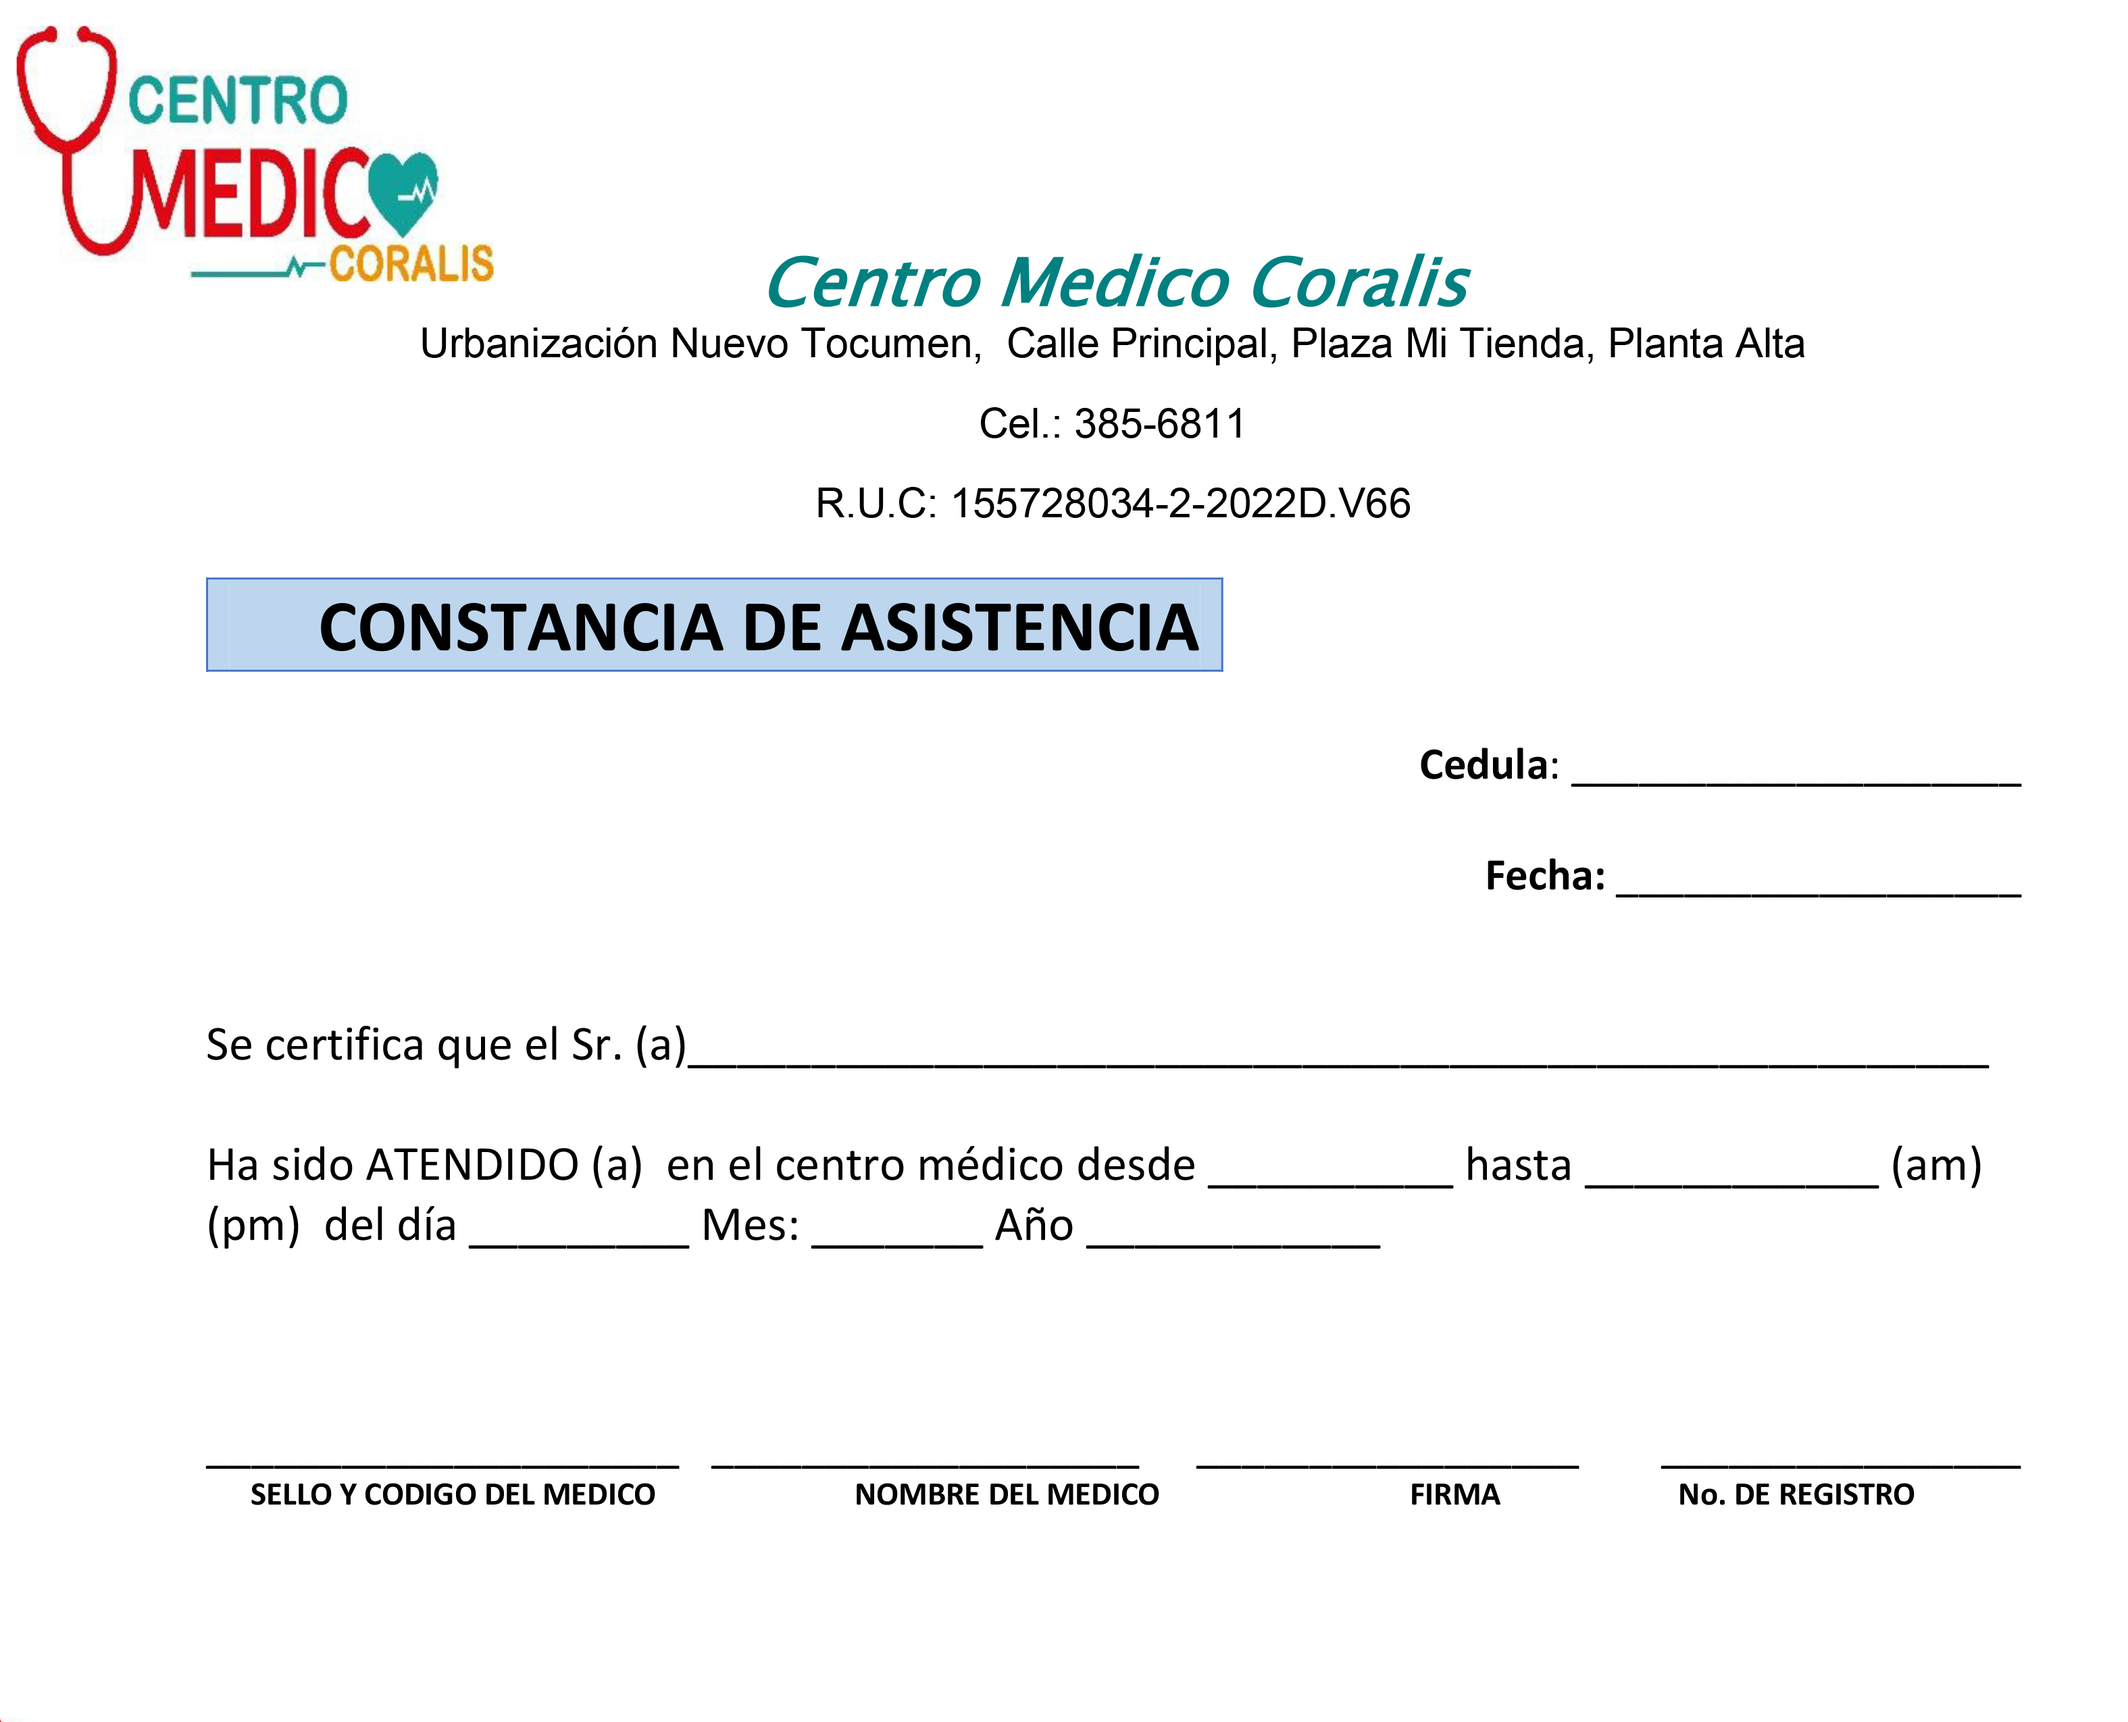
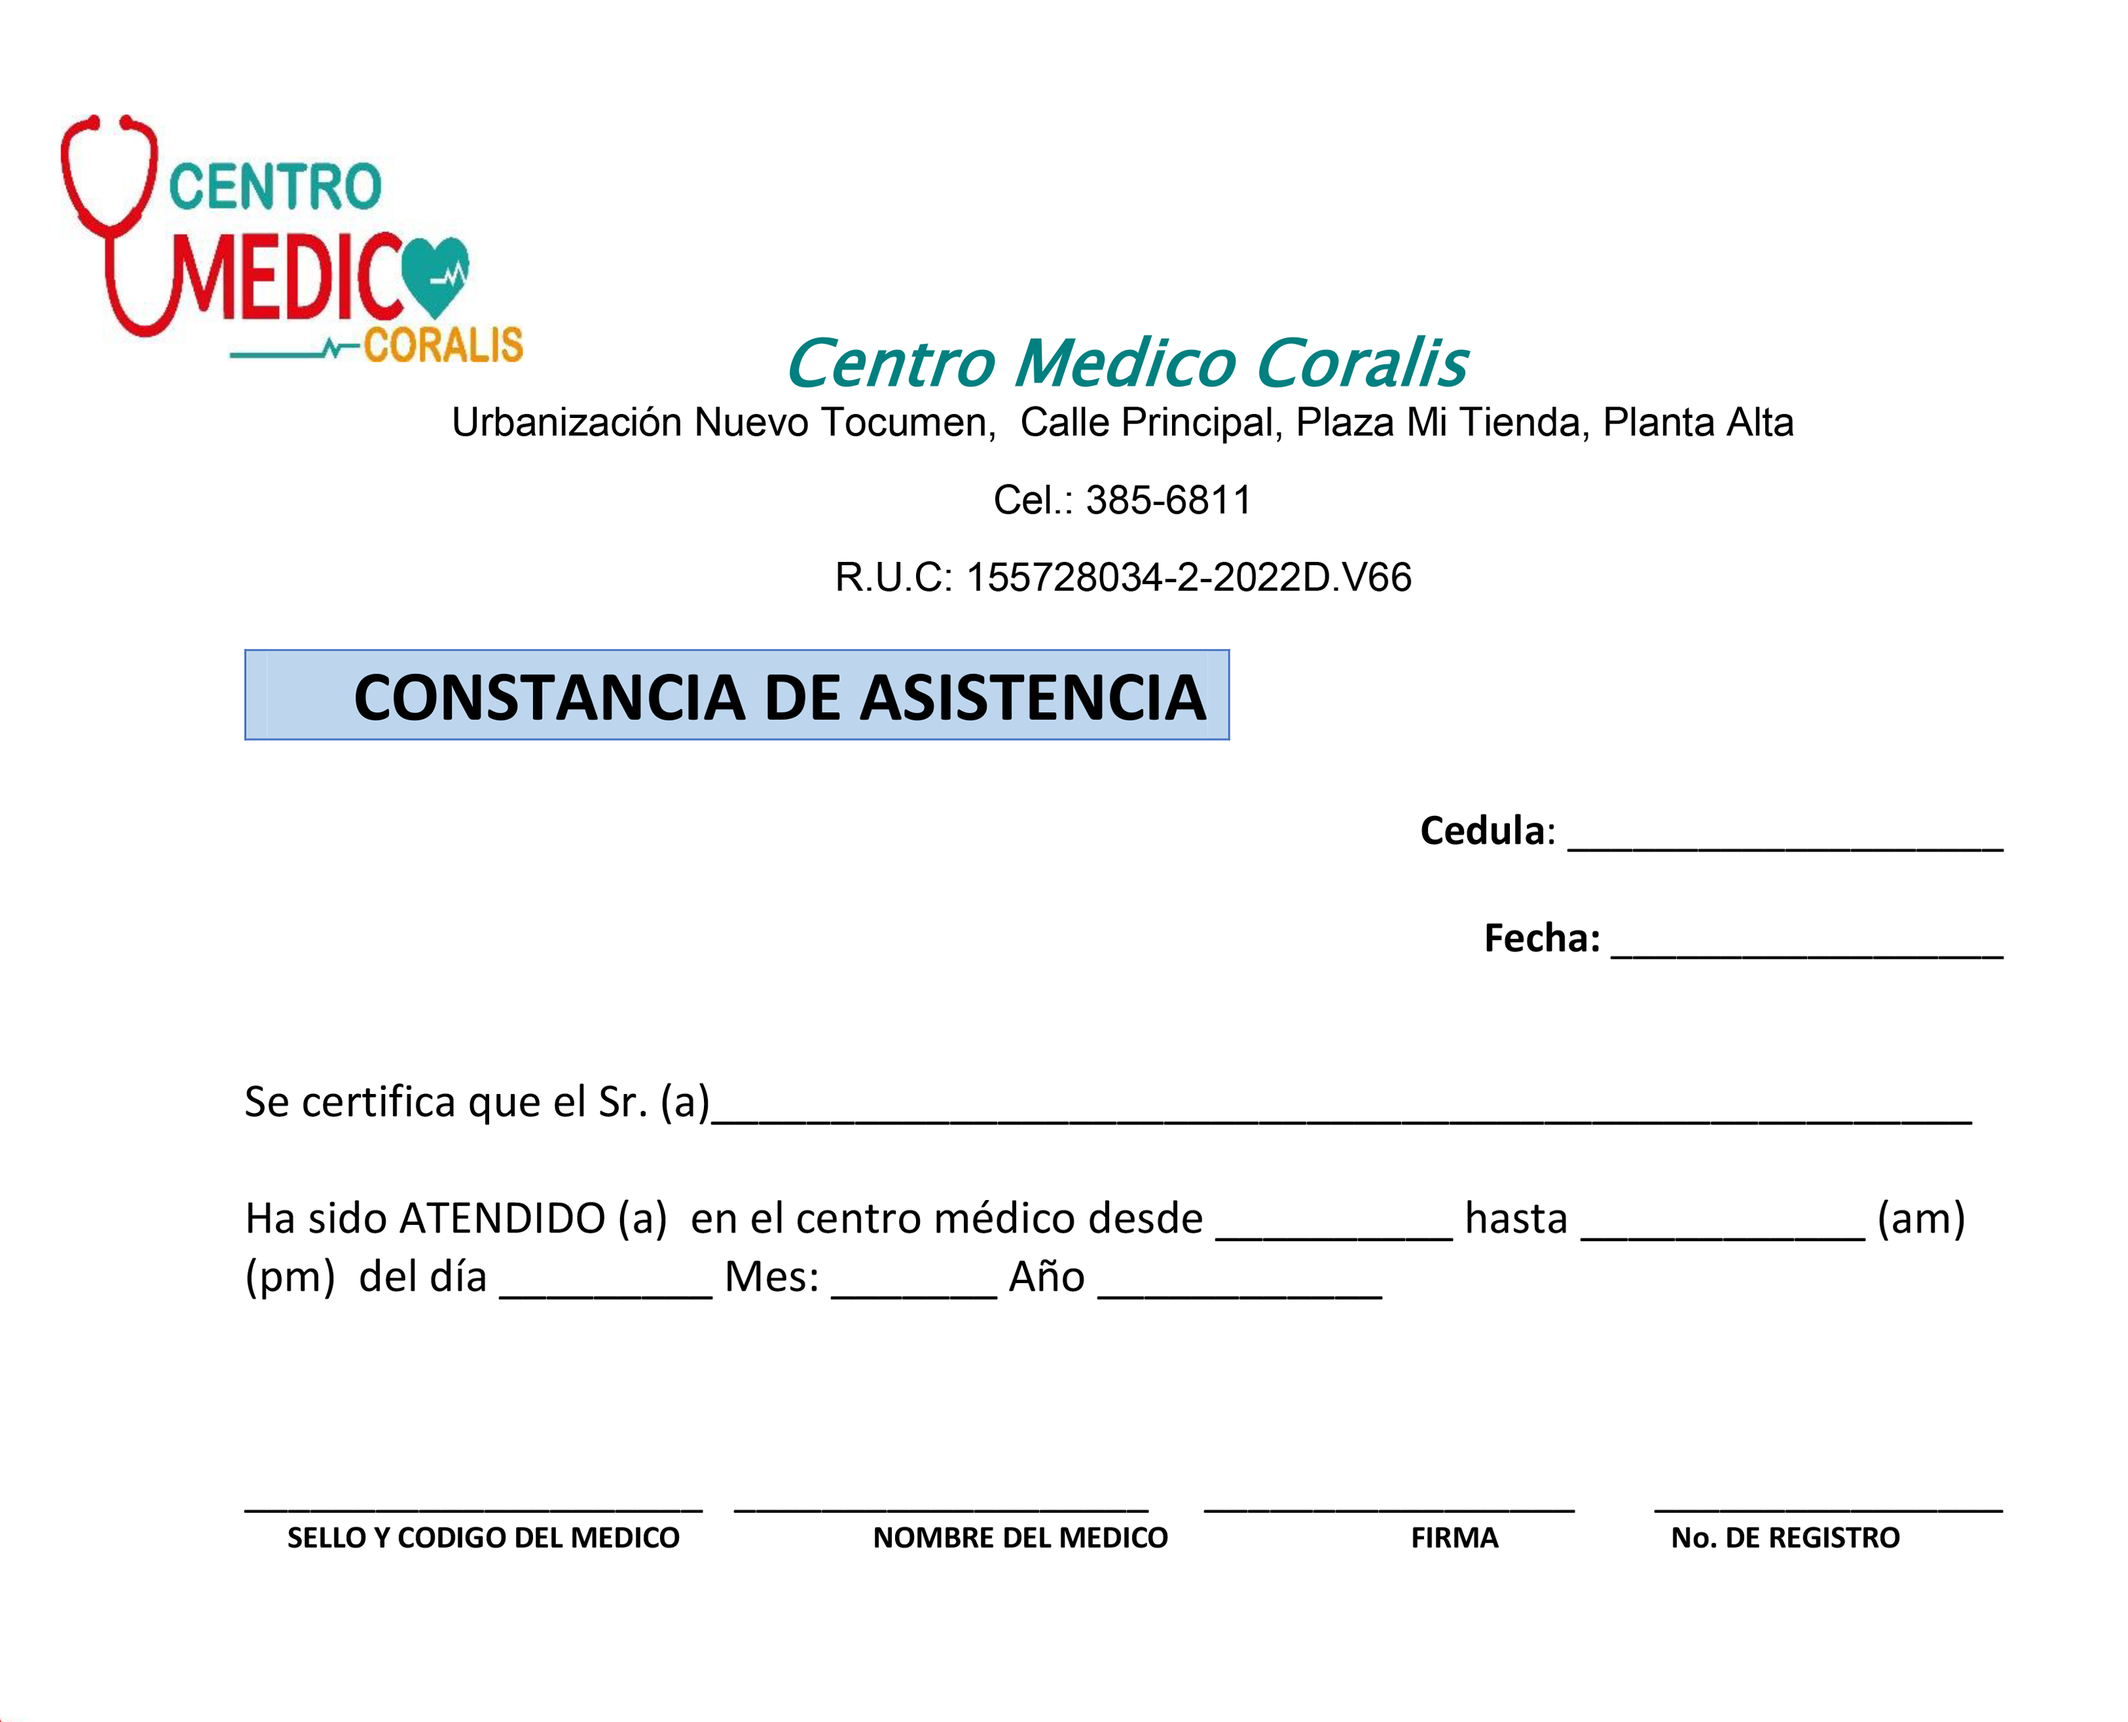
Constancia y cambio de motivo de consulta

diff --git a/resources/views/consulta/constanciaPdf.blade.php b/resources/views/consulta/constanciaPdf.blade.php
@@ -4,8 +4,8 @@
   <meta charset="UTF-8">
    <style>
     @page {
-      size:  210mm 148.5mm; /* A5 */
-      margin: 0;
+        size: 266.7mm 215.9mm;
+        margin: 0;
     }
 
     #nRegistro{
@@ -31,13 +31,13 @@
     }
 
     .pagina {
-      width: 210mm;
-      height: 148.5mm;
-      box-sizing: border-box;
-      display: flex;
-      align-items: center;
-      justify-content: center;
-      font-family: sans-serif;
+        width: 266.7mm;  
+        height: 215.9mm;  
+        box-sizing: border-box;
+        display: flex;
+        align-items: center;
+        justify-content: center;
+        font-family: sans-serif;
     }
   </style>
   <!-- CSS only -->
@@ -47,25 +47,52 @@
     
         <div class="pagina">
             <div>    
-                <p id="nRegistro" style="padding-top: 175px; padding-left: 520px;">N° {{$numero}}</p>
+                <p style="padding-top: 375px; padding-left: 780px;">{{$consulta->paciente->identificacion_paciente}} </p>
             </div>
             <div>
-                <p style="margin-top: 22px; padding-left: 95px;">{{$consulta->paciente->nombre_paciente}} {{$consulta->paciente->apellido_paciente}}</p> <p style="margin-top: -45px; padding-left: 525px;">{{$consulta->paciente->identificacion_paciente}} </p>
+                <p style="margin-top: 10; padding-left: 780px;">{{$consulta->fecha_consulta}} </p>
+            </div>
+            <div>
+                <p style="margin-top:30px; padding-left: 450px;">{{$consulta->paciente->nombre_paciente}} {{$consulta->paciente->apellido_paciente}}</p> 
+            </div>
+            @php
+                $hora_inicio24 = $constancia->hora_inicio;
+                $hora_fin24 = $constancia->hora_fin;
+                $hora_inicio12 = \Carbon\Carbon::createFromFormat('H:i', $hora_inicio24)->format('g:i A');
+                $hora_fin12 = \Carbon\Carbon::createFromFormat('H:i', $hora_fin24)->format('g:i A');
+            @endphp
+            <div>
+                <p style="margin-top: 15; padding-left: 600px;">{{$hora_inicio12}}</p><p style="margin-top: -30; padding-left: 780px;">{{$hora_fin12}}</p>
             </div>
             
-            <div style="text-align: left width: 10%; margin-top: 95px; margin-left: 130px;">
-                @if($firma)
-                    <img src="img/firmas/{{$consulta->doctor->nombre_usuario}}.PNG" width="150"/>
-                @endif
+            @php
+                [$anio, $mesNum, $dia] = explode('-', $consulta->fecha_consulta);
+                $meses = [
+                    '01' => 'enero', '02' => 'febrero', '03' => 'marzo',
+                    '04' => 'abril', '05' => 'mayo', '06' => 'junio',
+                    '07' => 'julio', '08' => 'agosto', '09' => 'septiembre',
+                    '10' => 'octubre', '11' => 'noviembre', '12' => 'diciembre'
+                ];
+                $mes = $meses[$mesNum];
+
+            @endphp
+            <div>
+                <p style="margin-top:-10; padding-left: 260px;">{{$dia}}</p><p style="margin-top: -30; padding-left: 400px;">{{$mes}}</p><p style="margin-top: -30; padding-left: 560px;">{{$anio}}</p>
             </div>
-            <div style=" margin-top: -500px; margin-left: 330px;" >
+            <div style="text-align: left width: 10%; margin-top: -10px; margin-left: 160px;">
                 @if($sello)
                     <img src="img/sellos/{{$consulta->doctor->nombre_usuario}}.PNG" width="150"/>
                 @endif
             </div>
-            <div>
-                <p style="margin-top: -50px; padding-left: 530px;">{{$consulta->fecha_consulta}} </p>
+            <div style=" margin-top: -800px; margin-left: 580px;" >
+                @if($firma)
+                    <img src="img/firmas/{{$consulta->doctor->nombre_usuario}}.PNG" width="150"/>
+                @endif
             </div>
+            <div>
+                <p style="margin-top: -70px; padding-left: 400px;">{{$consulta->doctor->primer_nombre_usuario}} {{$consulta->doctor->apellido_usuario}}</p>
+            </div>
+            
                     
            
 

diff --git a/app/Http/Controllers/constanciaController.php b/app/Http/Controllers/constanciaController.php
@@ -5,12 +5,45 @@ use Illuminate\Support\Facades\Auth;
 use Illuminate\Support\Facades\File;
 
 use App\Models\consulta;
-use App\Models\certificado;
+use App\Models\constancia;
 
 use Illuminate\Http\Request;
 
-class certificadoController extends Controller
+class constanciaController extends Controller
 {
+    public function insert(Request $request){    
+    
+        if (!Auth::user()) {
+
+            Session::put('url', url()->current());    
+            return redirect(route('login.index'));
+        }
+        
+        if(Auth::user()->accesoRuta('/constancia/create')){
+                       
+            
+
+            $constancia = constancia::where('consulta_id', $request->txtId)->first();
+
+            if (!$constancia) {
+                $constancia = new constancia();
+            }
+
+            $constancia->consulta_id = $request->txtId;
+            $constancia->hora_inicio = $request->hora_inicio;
+            $constancia->hora_fin = $request->hora_fin;
+            $constancia->save();
+ 
+            
+            return redirect(route('constancia.print',['id'=>$request->txtId]));
+        }
+        
+              
+        return redirect(route('index'))->withErrors(['danger' => "No tienes acceso a esta funcion." ]);            
+        
+        
+    }
+
     public function print($id){
         
         if (!Auth::user()) {
@@ -19,11 +52,11 @@ class certificadoController extends Controller
             return redirect(route('login.index'));
         }
 
-        if(Auth::user()->accesoRuta('/certificado/imprimir')){
+        if(Auth::user()->accesoRuta('/constancia/imprimir')){
 
             $consulta = consulta::find($id);
             
-            $numero = certificado::ultimo();
+            $constancia = constancia::where('consulta_id', $id)->first();
             
             $firmaPath = public_path("img/firmas/{$consulta->doctor->nombre_usuario}.PNG");
             $selloPath = public_path("img/sellos/{$consulta->doctor->nombre_usuario}.PNG");
@@ -32,14 +65,14 @@ class certificadoController extends Controller
             $firmaExiste = File::exists($firmaPath);
             $selloExiste = File::exists($selloPath);
 
-            $pdf = \PDF::loadView('consulta.certificadoPdf', [
+            $pdf = \PDF::loadView('consulta.constanciaPdf', [
                 'consulta' => $consulta,
-                'numero' => $numero,
+                'constancia' => $constancia,
                 'firma' => $firmaExiste,
                 'sello' => $selloExiste
             ])->setPaper([0, 0, 595.2756,  419.5276]);
 
-            $nombreArchivo = 'Certificado '.$consulta->paciente->identificacion_paciente.'.pdf';
+            $nombreArchivo = 'Constancia '.$consulta->paciente->identificacion_paciente.'.pdf';
             return $pdf->stream($nombreArchivo);
             
 

diff --git a/routes/web.php b/routes/web.php
@@ -13,6 +13,7 @@ use App\Http\Controllers\consultaController;
 use App\Http\Controllers\recetaController;
 use App\Http\Controllers\certificadoController;
 use App\Http\Controllers\referenciaController;
+use App\Http\Controllers\constanciaController;
 
 
 Route::get('/', [loginController::class, 'dashboard'])->name('index');
@@ -80,6 +81,10 @@ Route::get("/certificado/print/{id}", [certificadoController::class, 'print'])->
 
 Route::Post("/referencia/insert", [referenciaController::class, 'insert'])->name("referencia.insert");
 Route::get("/referencia/print/{id}", [referenciaController::class, 'print'])->name("referencia.print");
+
+/*Constancia*/
+Route::Post("/constancia/insert", [constanciaController::class, 'insert'])->name("constancia.insert");
+Route::get("/constancia/print/{id}", [constanciaController::class, 'print'])->name("constancia.print");
 
 // -----------------------------------------------------------------------------------------------------------------
 

diff --git a/resources/views/components/crear-constancia.blade.php b/resources/views/components/crear-constancia.blade.php
@@ -1,13 +1,13 @@
 <div class="row" style="padding-top: 15px">      
+   
     <div class="form-group col-md-6">
-        <label for="">Horario de constancia:</label>
-        <input type="text" class="form-control" id="" placeholder="Ejemplo: CSS"  value="{{old('RefiereA')}}" name="RefiereA">
+        <label for="" name="hora_inicio">Hora de entrada:</label>
+        <input type="time" name="hora_inicio" />
     </div>
     <div class="form-group col-md-6">
-        <label for="">Hora de entrada:</label>
-        <input type="time" name="hora" />
-    </div>
-
+        <label for="" name="hora_fin">Hora de salida:</label>
+        <input type="time" name="hora_fin" />
+    </div> 
     
 </div>
 

diff --git a/resources/views/modals/ConstanciaModals.blade.php b/resources/views/modals/ConstanciaModals.blade.php
@@ -9,7 +9,7 @@
                 <div class="panel-wrapper collapse in">
                     <div class="panel-body">
                         <div class="form-wrap">
-                            <form action="{{route('referencia.insert')}}" method="POST" role="form">
+                            <form action="{{route('constancia.insert')}}" method="POST" role="form">
                                 @csrf
                                 <x-crear-constancia :resultado="$consulta" /> 
                             </form>

diff --git a/app/Http/Controllers/consultaController.php b/app/Http/Controllers/consultaController.php
@@ -249,6 +249,7 @@ class consultaController extends Controller
 
             if ($request->accion == 'terminar') {
                 $consulta->estado_consulta = 'TERMINADA';
+                $consulta->motivo_consulta = 'ATENDIDO';
             }
             
             $consulta->save();
